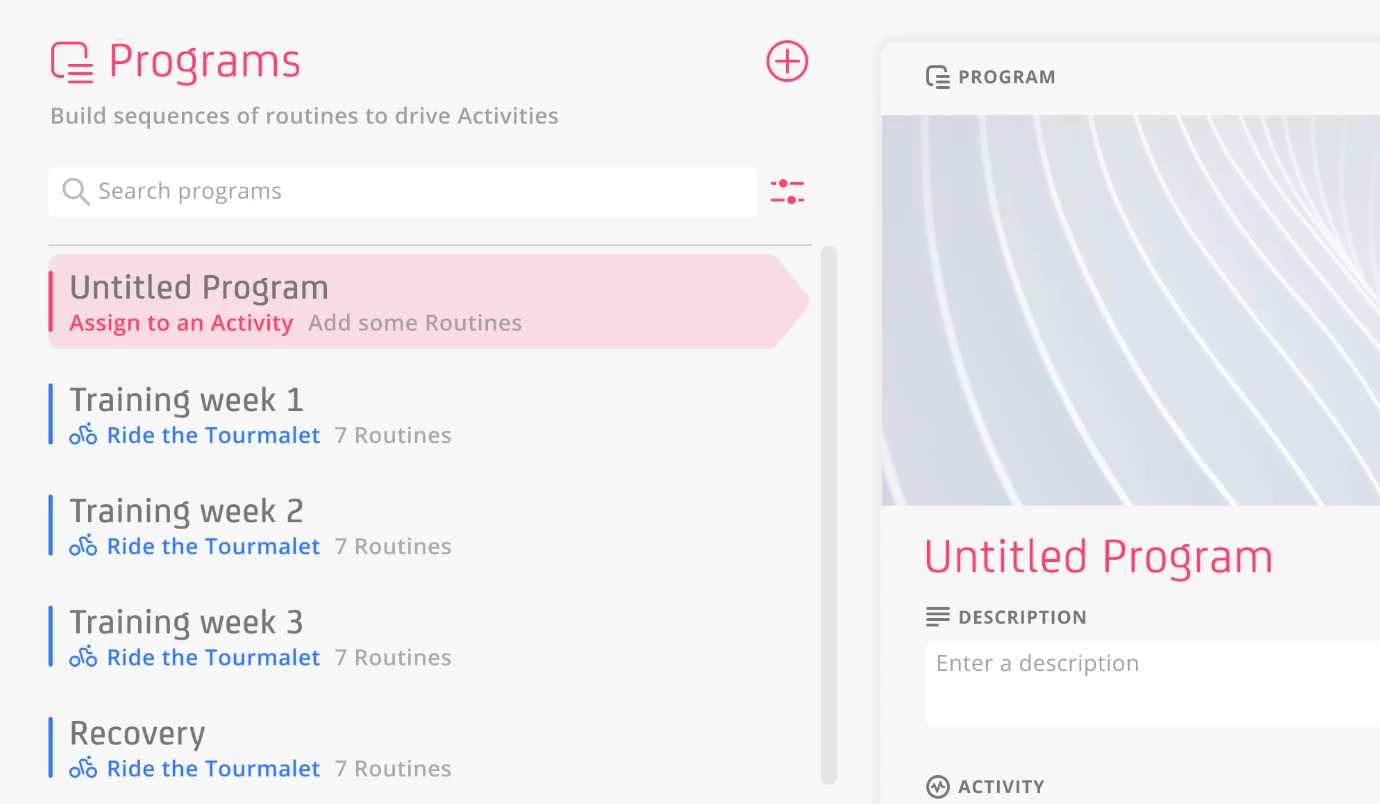
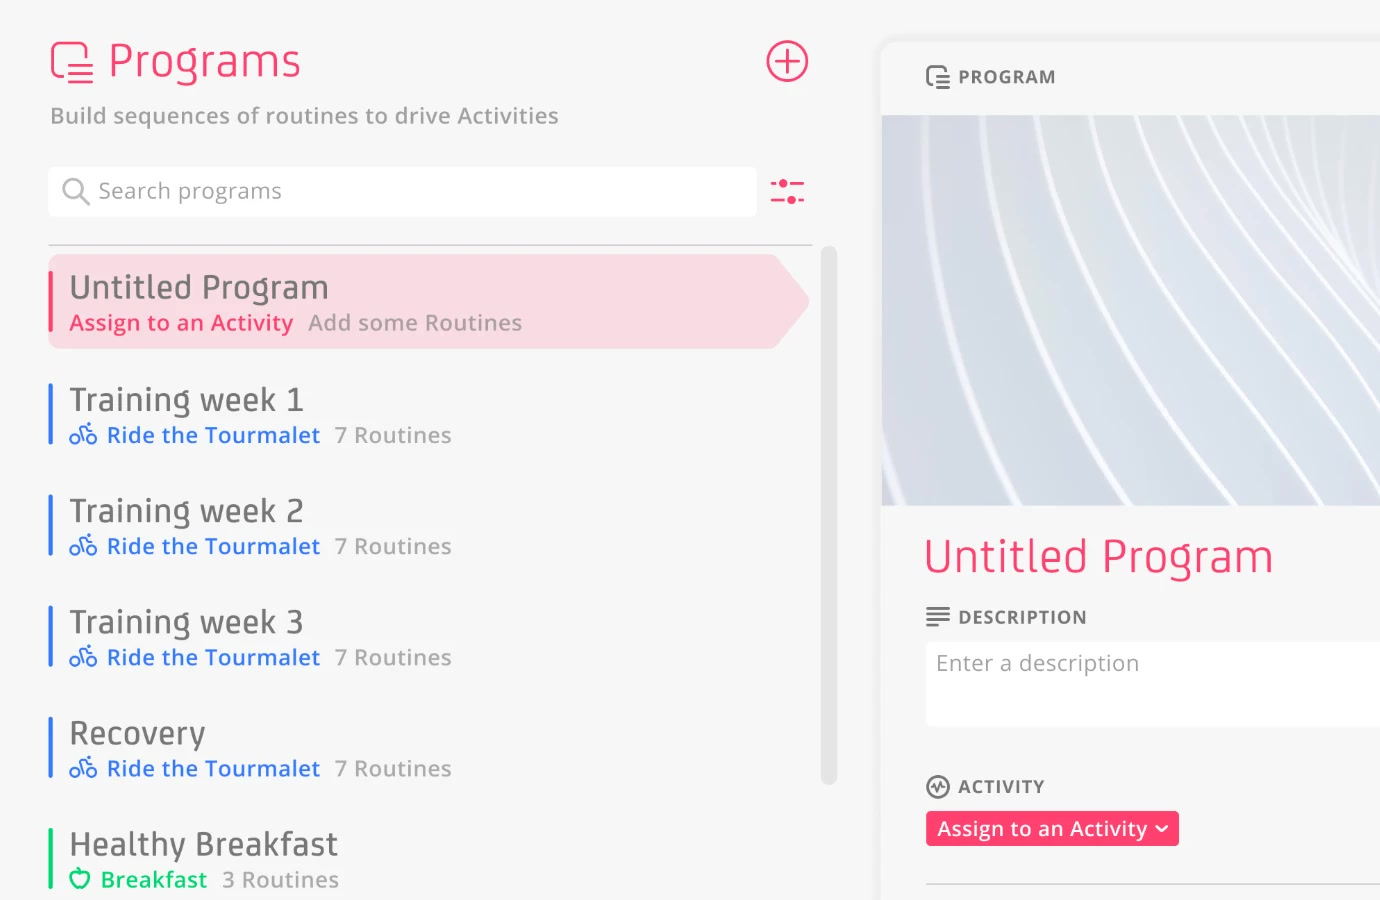
Zonefully hero: taller crop, 1380x900, ending below Healthy Breakfast

diff --git a/case-studies/zonefully.html b/case-studies/zonefully.html
@@ -873,7 +873,7 @@
   </nav>
   <div class="zf-hero">
     <div class="zf-hero-media">
-      <img src="media/zonefully-hero-programs.jpg" width="1380" height="804" alt="Zonefully&rsquo;s Programs screen: a list of programmes, a new &lsquo;Untitled Program&rsquo; selected, and its detail panel opening beside it.">
+      <img src="media/zonefully-hero-programs.jpg" width="1380" height="900" alt="Zonefully&rsquo;s Programs screen: a list of programmes, a new &lsquo;Untitled Program&rsquo; selected, and its detail panel opening beside it.">
     </div>
     <div class="zf-hero-text">
       <h1 class="display head-fade">Connecting <span class="nowrap">long-term</span> goals to everyday routines</h1>
